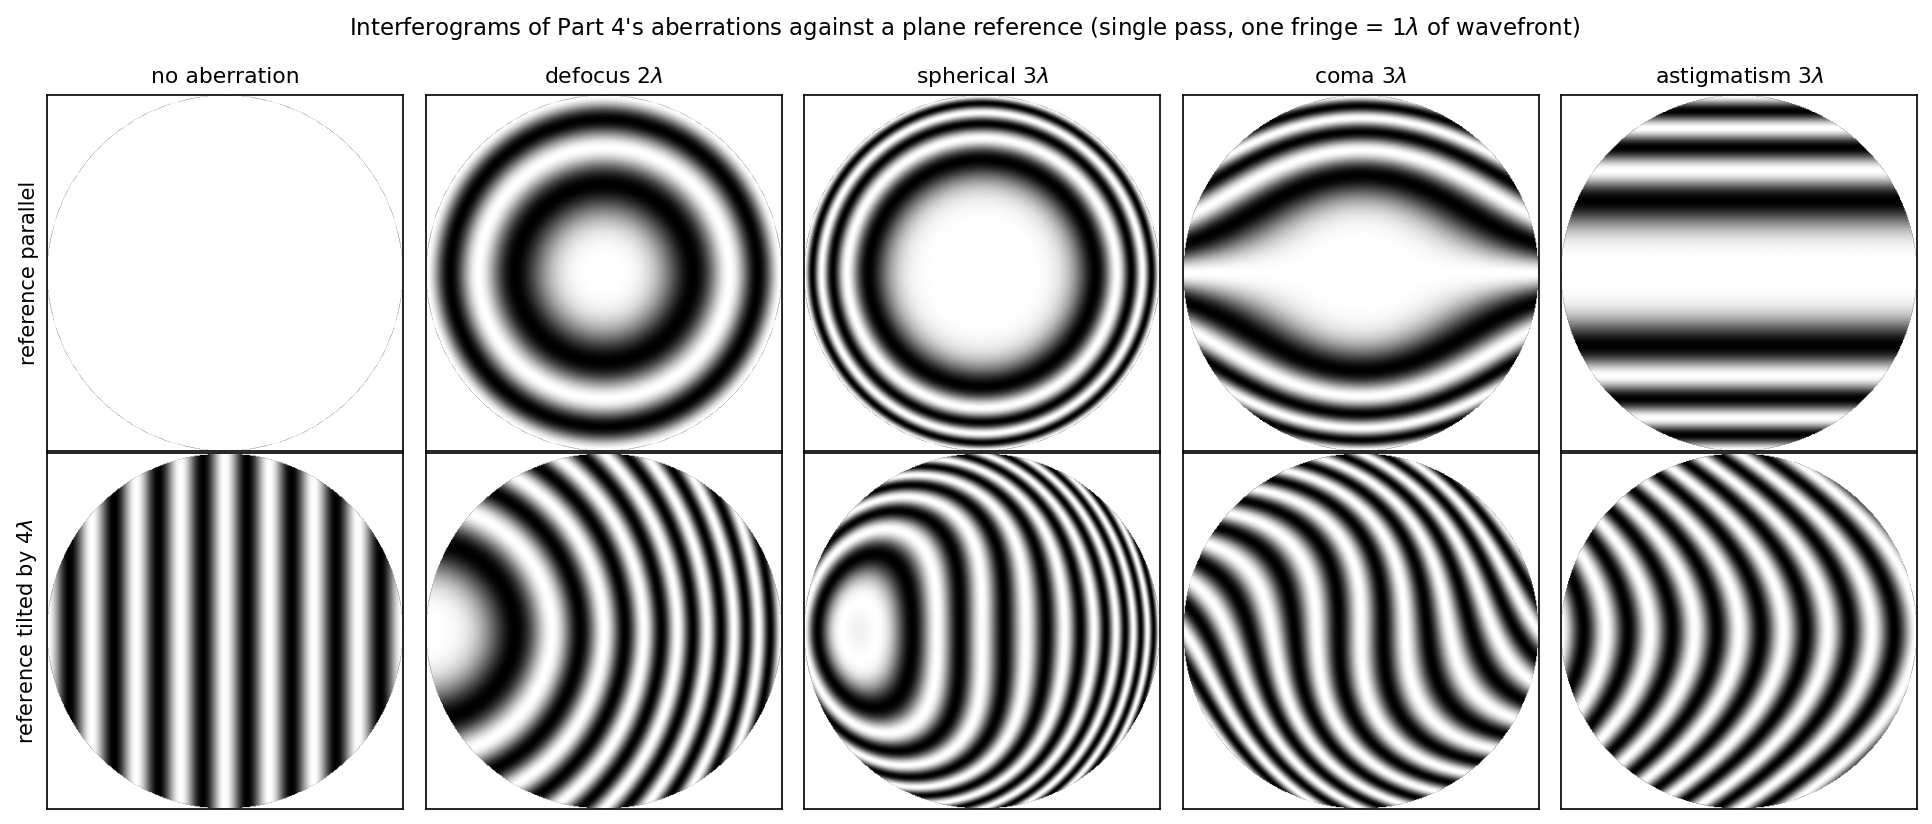
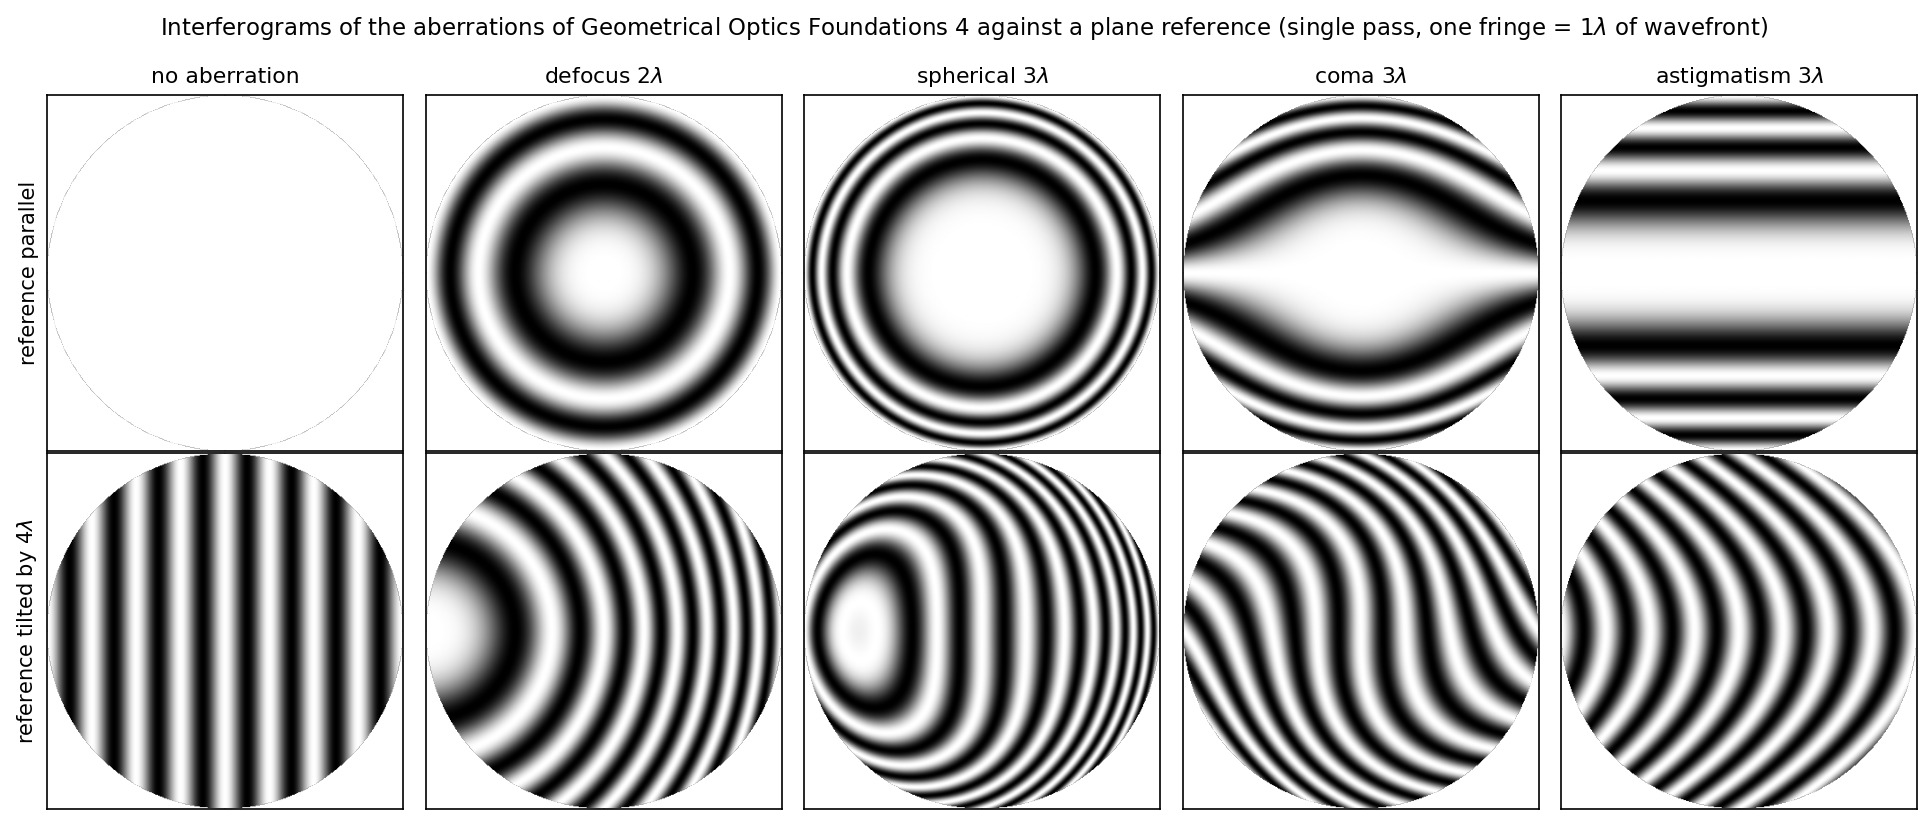
fix(post): wave-optics-interference — tech-writing-style 재교정, 질문형 제목, 결맞음 표기, fig9

Changed region(s): [[0.0932, 0.0, 0.9006, 0.0607]]

diff --git a/_code/wave-optics-interference/generate_figures.py b/_code/wave-optics-interference/generate_figures.py
@@ -247,8 +247,8 @@ def figure9(L):
                 ax.set_title(name, fontsize=10.5, **font(L))
     axes[0, 0].set_ylabel(t(L, "기준파와 나란히", "reference parallel"), fontsize=10, **font(L))
     axes[1, 0].set_ylabel(t(L, "기준파를 4λ 기울임", "reference tilted by 4λ"), fontsize=10, **font(L))
-    fig.suptitle(t(L, "4편의 수차를 평면 기준파와 겹친 간섭무늬 (한 번 지나는 파면, 무늬 하나 = 파면 차 1λ)",
-                   "Interferograms of Part 4's aberrations against a plane reference (single pass, one fringe = 1λ of wavefront)"),
+    fig.suptitle(t(L, "기하광학 배경이론 4편의 수차를 평면 기준파와 겹친 간섭 무늬 (한 번 지나는 파면, 무늬 하나 = 파면 차 1λ)",
+                   "Interferograms of the aberrations of Geometrical Optics Foundations 4 against a plane reference (single pass, one fringe = 1λ of wavefront)"),
                  fontsize=11, **font(L))
     fig.tight_layout()
     save(fig, L, "fig9-aberration-interferograms.png")

diff --git a/_posts/2026-11-25-wave-optics-interference-en.md b/_posts/2026-11-25-wave-optics-interference-en.md
@@ -1,7 +1,7 @@
 ---
 layout: post
 date: 2026-11-25 20:00:00 +0900
-title: "Wave Optics Foundations 1 — Why Can Light Plus Light Be Darker? Interference"
+title: "Wave Optics Foundations 1 — Why Can Light Plus Light Be Darker?"
 lang: en
 lang-exclusive: ["en"]
 permalink: /posts/wave-optics-interference/
@@ -19,7 +19,7 @@ _Figure 1. A film of diesel spread on a wet road. The film thickness varies from
 
 In the [geometrical optics foundations](/en/posts/geometric-optics-fermat-eikonal/), rays were lines carrying energy, and where two bundles of rays overlapped their brightnesses added. That picture cannot explain Figure 1. We need the fact that light is a wave, that a wave has crests and troughs, and that a crest meeting a trough cancels it. This is interference. At the end of [Geometrical Optics Foundations 4](/en/posts/geometric-optics-aberrations/), once aberrations shrank to the size of a wavelength, the ray picture gave way to diffraction. This series starts from there and takes in turn interference, coherence, diffraction, Fourier imaging, Gaussian beams and high-NA focusing. The first part is interference, the basis of all wave optics.
 
-## 1. Add amplitudes, measure intensity
+## 1. What happens to the intensity when two beams are added?
 
 There is one key to interference: light adds as amplitudes, and we measure intensity.
 
@@ -27,7 +27,7 @@ Where two waves meet, the electric field is the sum of the two fields. This is t
 
 $$ I = I_1 + I_2 + 2\sqrt{I_1 I_2}\,\cos\delta $$
 
-[1, 2, 3]. The third term is the interference term. At zero phase difference the intensity exceeds the sum (constructive interference); at $\pi$ it falls below it (destructive interference). If the two intensities are equal, $I = 4I_1\cos^2(\delta/2)$: four times a single beam at the bright points and exactly zero at the dark ones [1, 2].
+[1, 2, 3]. In other words, the intensity of the sum is the sum of the intensities plus one extra term whose sign follows the phase difference. The third term is the interference term. At zero phase difference the intensity exceeds the sum (constructive interference); at $\pi$ it falls below it (destructive interference). If the two intensities are equal, $I = 4I_1\cos^2(\delta/2)$: four times a single beam at the bright points and exactly zero at the dark ones [1, 2].
 
 Phasors make this intuitive. Draw each wave as an arrow whose length is the amplitude and whose direction is the phase, and place the arrows head to tail. The squared length of the resulting arrow is the intensity (Figure 2(a)). Arrows pointing the same way add their lengths; arrows pointing opposite ways subtract.
 
@@ -40,11 +40,11 @@ How clear the fringes are is measured by the visibility
 
 $$ V = \frac{I_{\max} - I_{\min}}{I_{\max} + I_{\min}} = \frac{2\sqrt{I_1 I_2}}{I_1 + I_2} $$
 
-With equal intensities $V = 1$ and the dark fringes are completely black [1]. What stands out in Figure 2(c) is how gently the curve falls. Even when one beam is only 1/100 as intense as the other, the visibility is 0.2. Its amplitude is the square root, 1/10, and adding to and subtracting from the strong beam it swings the intensity by ±20%. Techniques that read a very weak signal by mixing it with a strong reference beam and amplifying it through interference exploit exactly this.
+Here $I_{\max}$ and $I_{\min}$ are the intensities at the brightest and darkest points of the pattern; in other words, the closer $V$ is to 1, the clearer the fringes. With equal intensities $V = 1$ and the dark fringes are completely black [1]. What stands out in Figure 2(c) is how gently the curve falls. Even when one beam is only 1/100 as intense as the other, the visibility is 0.2. Its amplitude is the square root, 1/10, and adding to and subtracting from the strong beam it swings the intensity by ±20%. Techniques that read a very weak signal by mixing it with a strong reference beam and amplifying it through interference exploit exactly this.
 
-## 2. When can interference be seen?
+## 2. Why do two lamps make no interference fringes?
 
-Why, then, don't two lamps in a room produce interference fringes? The interference formula assumes that the phase difference $\delta$ is constant. Three things are needed to see fringes.
+Two lamps in a room produce no interference fringes. Why not? The interference formula assumes that the phase difference $\delta$ is constant. Three things are needed to see fringes.
 
 First, the two beams must have almost the same frequency. If the frequencies differ, the phase difference rotates rapidly in time and the interference term averages to zero over the detection time [1]. Second, the phase difference must stay constant. Even if the phases differ, a constant difference only shifts the pattern sideways. Two such sources are called coherent [1]. Light from an ordinary source oscillates as a well-behaved sine wave for less than about 10 ns before its phase changes at random [1]. The pattern from two lamps jumps to a new position every such interval and averages away [1]. So to see interference, one splits a single beam in two and recombines it. The two halves change phase together, so their difference stays constant [1, 2]. How long and over how wide a region the phase stays orderly is coherence, the subject of the next part.
 
@@ -52,7 +52,7 @@ Third, the polarizations of the two beams must be parallel. Strictly, the interf
 
 There are two ways to split light in two [2]. Division of wavefront takes different parts of a wavefront; division of amplitude splits the intensity at a partially reflecting surface. Division of wavefront requires a small source, while division of amplitude works with extended sources and gives brighter fringes [2]. Sections 3 and 4 take them in turn.
 
-## 3. Division of wavefront: Young's experiment
+## 3. How can two holes measure the wavelength of light?
 
 In 1665 Grimaldi let sunlight through two pinholes to see whether the region where the two discs of light overlapped would darken [1]. A hundred and forty years later the physician Thomas Young repeated the experiment, and the key was a third pinhole placed before the two [1]. The same wavefront spreading from the first hole illuminated both of the others, so the light leaving them formed phase-locked twins. Young published the result in 1804, and it became the experiment that established the wave theory of light against Newton's widely accepted corpuscular theory [1].
 
@@ -65,7 +65,7 @@ On a distant screen the hyperbolas become nearly straight, and the pattern becom
 
 $$ \Delta x = \frac{\lambda L}{d} $$
 
-[1, 3]. Two holes 0.5 mm apart lit with 550 nm light give fringes 1.1 mm apart on a screen 1 m away (Figure 3(b)). The wavelength is less than a micrometre, yet the fringes are millimetres wide; the distance $L$ magnifies the wavelength. Measuring the fringe spacing and the two distances gives the wavelength in return.
+[1, 3]. In other words, the closer the holes, the farther the screen and the longer the wavelength, the wider the fringes. Two holes 0.5 mm apart lit with 550 nm light give fringes 1.1 mm apart on a screen 1 m away (Figure 3(b)). The wavelength is less than a micrometre, yet the fringes are millimetres wide; the distance $L$ magnifies the wavelength. Measuring the fringe spacing and the two distances gives the wavelength in return.
 
 A more general form hides in this formula. Seen from afar, the light from the two holes is two plane waves meeting at an angle $\theta \approx d/L$. Two plane waves meeting at an angle $\theta$ produce sinusoidal fringes of period $\lambda/\sin\theta$ [3]. At 30° the period is twice the wavelength. This is how fine diffraction gratings are written with light, and holography, which records the fringes between a reference beam and the light from an object, starts from the same idea [3].
 
@@ -74,7 +74,7 @@ _Figure 4. Interference fringes from sunlight passing through two slits about 0.
 
 Figure 4 is Young's experiment done directly with sunlight. Sunlight contains every colour. Red interferes with red and blue with blue, and the patterns of all the colours overlap into a single white-light pattern [1]. At the central fringe, where the path difference is zero, every colour is bright together, so it is white. As the path difference grows, the patterns of different colours drift apart, and after a few fringes the colours mix and the fringes vanish. This is why white-light fringes extend over a much narrower range than monochromatic ones, and it returns in the next part as the coherence length.
 
-## 4. Division of amplitude: thin films and Newton's rings
+## 4. Why does a thin film show colours?
 
 Back to the oil film of Figure 1. Light reflected from the top of the film overlaps light reflected from the bottom. The two surfaces have split the same light by intensity, so this is division of amplitude. The optical path difference between the two is one round trip inside the film, $2nt$ at normal incidence, where $n$ is the film index and $t$ its thickness.
 
@@ -85,32 +85,32 @@ _Figure 5. (a) Normal-incidence reflectance of a water film (n = 1.33) in air at
 
 In Figure 5(a) the calculation with only two reflections (orange) and the one with all the multiply reflected light (black dashed) are almost identical. A water–air boundary reflects only 2% of the light, so the third reflection onwards is negligible. Things change when the reflectance is high, as Section 6 shows. Reflection from a stack of many layers is computed with the transfer-matrix method of [Ellipsometry Foundations 3](/en/posts/ellipsometry-thin-film-multilayer-reflectance/).
 
-### Fringes of equal thickness
+### How does thickness become a pattern?
 
 When the film thickness varies, places of equal thickness form stripes of equal brightness. These are fringes of equal thickness [1, 2]. The coloured bands of Figure 1 are contour lines of the oil film. In white light, different thicknesses strengthen different colours and give coloured bands; in monochromatic light they give bright and dark stripes. In a wedge whose thickness grows uniformly in one direction, as in Figure 5(b), the stripes are evenly spaced. The thickness increases by $\lambda/2n$ from one stripe to the next, so a water film tilted by 0.1 mrad gives stripes 2.2 mm apart. Press two clean microscope slides together and you can see the coloured bands of the air film between them shift as you press [1].
 
-### Newton's rings
+### What do Newton's rings tell us?
 
 Place a convex lens on a flat plate and the air gap between them thickens outwards in proportion to the square of the radius. The fringes of equal thickness become concentric circles, Newton's rings (Figure 5(c), Figure 6). For a lens of radius of curvature $R$, the radius of the $m$-th dark ring is
 
 $$ r_m = \sqrt{m\lambda R} $$
 
-[1]. The centre, where the thickness is zero, is dark. A lens with a 1 m radius of curvature seen in sodium light (589 nm) has its first dark ring at a radius of 0.77 mm. Measuring the ring radii gives the curvature of the lens, and distorted rings mean the surface is uneven [1]. This is the check done in lens shops when a lens surface is laid against a reference.
+[1]. In other words, the ring radius grows as $\sqrt{m}$, so the rings crowd together towards the edge. The centre, where the thickness is zero, is dark. A lens with a 1 m radius of curvature seen in sodium light (589 nm) has its first dark ring at a radius of 0.77 mm. Measuring the ring radii gives the curvature of the lens, and distorted rings mean the surface is uneven [1]. This is the check done in lens shops when a lens surface is laid against a reference.
 
 <img src="/assets/img/posts/wave-optics-interference/ext-newton-rings.jpg" alt="Newton's rings in sodium light" width="560">
 _Figure 6. Newton's rings formed in sodium light by the air gap between a 20 cm focal-length convex lens and a flat, seen through a microscope. (Source: Warrencarpani, [20cm Air 1](https://commons.wikimedia.org/wiki/File:20cm_Air_1.jpg), [CC0](https://creativecommons.org/publicdomain/zero/1.0/deed.en))_
 
 The rings bear Newton's name, but Hooke and Newton each studied the colours of such thin films in detail, from soap bubbles to the air between lenses [1].
 
-### Films that cancel reflection
+### How does a coating cancel reflection?
 
 Interference can remove reflection as well as create it. Coat a glass surface with a film whose index lies between those of air and glass, with a thickness of $\lambda/4n$: the two reflections from the top and bottom of the film then differ by half a wavelength and cancel. This is an antireflection coating. A bare surface of glass with index 1.52 reflects 4.3%; a quarter-wave coating of magnesium fluoride (MgF₂, index 1.38) reduces that to 1.3% at the design wavelength. The coating is usually tuned to suppress reflection most strongly near green, where the eye is most sensitive. What remains is reflected at the two ends of the spectrum, violet and red, which is why coated camera lenses and spectacle lenses show a purplish tint when viewed at an angle.
 
-## 5. Interferometers
+## 5. How does interference measure length?
 
 An interferometer splits light with a beamsplitter, sends the two parts along different paths and recombines them [3]. The slightest change in the optical path of either arm shifts the phase difference and moves the fringes, so an interferometer is a ruler that measures length, refractive index and wavefronts in units of the wavelength.
 
-### The Michelson interferometer
+### How does a Michelson interferometer turn mirror motion into fringes?
 
 The Michelson interferometer splits light with a single half-silvered mirror, sends the two parts to mirrors at the ends of two arms, and recombines the returning light at the same half-silvered mirror (Figure 7) [1, 3]. Moving one mirror by $\lambda/2$ lengthens that arm's round trip by $\lambda$, and one fringe passes. With a 633 nm helium–neon laser, one fringe passes for every 316 nm of mirror travel (Figure 8(a)). Counting fringes measures the mirror's motion to a fraction of a wavelength.
 
@@ -126,16 +126,16 @@ With an extended source, concentric fringes appear as in Figure 8(b). Light ente
 
 Other interferometers follow from the same idea [1, 3]. The Mach–Zehnder interferometer has separate splitting and recombining mirrors, so its two arms are physically apart and a sample can be placed in one of them. A typical use is to view density variations in gas flow in a wind tunnel [1]. The Sagnac interferometer sends two beams round the same loop in opposite directions; if the whole device rotates, the two optical paths differ, and the rotation rate can be measured. Optical gyroscopes work on this principle [1, 3].
 
-### Seeing aberrations as fringes
+### How can fringes show the aberrations of a lens?
 
 Interferometers are used to test lenses. [Geometrical Optics Foundations 4](/en/posts/geometric-optics-aberrations/) defined aberration as the departure $W$ of the wavefront in the exit pupil from a reference sphere. Overlap the wavefront that has passed through a test lens with a perfect reference wave, and the fringes are the contour lines of $W$: from one dark fringe to the next, the wavefront changes by one wavelength. The Twyman–Green interferometer is a Michelson adapted for optical testing. One arm contains the lens under test, followed by a spherical mirror whose centre of curvature coincides with the focus of the lens [1]. If the lens is free of aberrations, the returning light is again a plane wave; if not, the aberration shows up as fringes [1]. Since the light passes through the test lens twice, one fringe corresponds to half a wavelength of wavefront error.
 
 <img src="/assets/img/posts/wave-optics-interference/en/fig9-aberration-interferograms.png" alt="Interferograms of the Seidel aberrations" width="780">
 _Figure 9. Interferograms of the aberrations of Geometrical Optics Foundations 4 against a plane reference wave (light passing the test optics once). Top row: reference parallel. Bottom row: reference tilted. One fringe is one wavelength of wavefront difference._
 
-Figure 9 computes how the aberrations of Part 4 look in an interferometer. Two waves of defocus give two concentric rings; three waves of spherical aberration give rings that crowd together towards the edge. Coma gives rings pushed to one side, and astigmatism a saddle-shaped pattern. Deliberately tilting the reference (bottom row) turns the pattern into straight stripes bent by the aberration, which is easier to read. Reading the phase quantitatively from fringes (phase shifting, unwrapping) was the subject of [Image Processing for Metrology Part 6](/en/posts/imgproc-phase-hilbert-unwrapping/). Interferometers and wavefront sensors report the measured wavefront as the Zernike coefficients met in Part 4 [4], and lens makers use those coefficients to polish or align their optics.
+Figure 9 computes how the aberrations of Geometrical Optics Foundations 4 look in an interferometer. Two waves of defocus give two concentric rings; three waves of spherical aberration give rings that crowd together towards the edge. Coma gives rings pushed to one side, and astigmatism a saddle-shaped pattern. Deliberately tilting the reference (bottom row) turns the pattern into straight stripes bent by the aberration, which is easier to read. Reading the phase quantitatively from fringes (phase shifting, unwrapping) was the subject of [Image Processing for Metrology Part 6](/en/posts/imgproc-phase-hilbert-unwrapping/). Interferometers and wavefront sensors report the measured wavefront as the Zernike coefficients met in Geometrical Optics Foundations 4 [4], and lens makers use those coefficients to polish or align their optics.
 
-### A length smaller than a proton: LIGO
+### How can a length smaller than a proton be measured?
 
 The most extreme use of the Michelson interferometer is the detection of gravitational waves. LIGO in the United States is a Michelson interferometer with 4 km arms (Figure 10). A passing gravitational wave stretches space in one direction and squeezes it in the perpendicular one, changing the difference between the arm lengths. The first gravitational wave detected, in 2015, changed the arm length by about $5\times10^{-22}$ of itself, roughly 2 am (attometres, $10^{-18}$ m) — some 400 times smaller than the radius of a proton [3].
 
@@ -144,7 +144,7 @@ _Figure 10. The LIGO Hanford Observatory in Washington State. A 4 km arm runs ac
 
 To catch such a small change, LIGO places a Fabry–Pérot interferometer of Section 6 inside each arm. The light travels up and down the arm hundreds of times, multiplying the phase difference produced by the same change in length. An arm with a finesse of about 450 amplifies phase changes by $2\mathcal{F}/\pi \approx 286$ [3]. This is multiple-beam interference, the subject of the next section.
 
-## 6. Multiple-beam interference: the Fabry–Pérot
+## 6. How do fringes change when many beams are added?
 
 So far only two beams have overlapped. Two-beam fringes have a $\cos^2$ shape, with bright and dark bands of equal width. Adding $M$ beams that each differ by the same phase step changes this. Only when the step is a multiple of $2\pi$ do the phasors line up and the intensity reach $M^2$ times one beam; for a slight departure the phasors curl round and cancel. The first zero comes at a step of $2\pi/M$ [3]. The more beams, the narrower the bright peaks (Figure 11(a)). The sharp spectral lines of a diffraction grating come from this.
 
